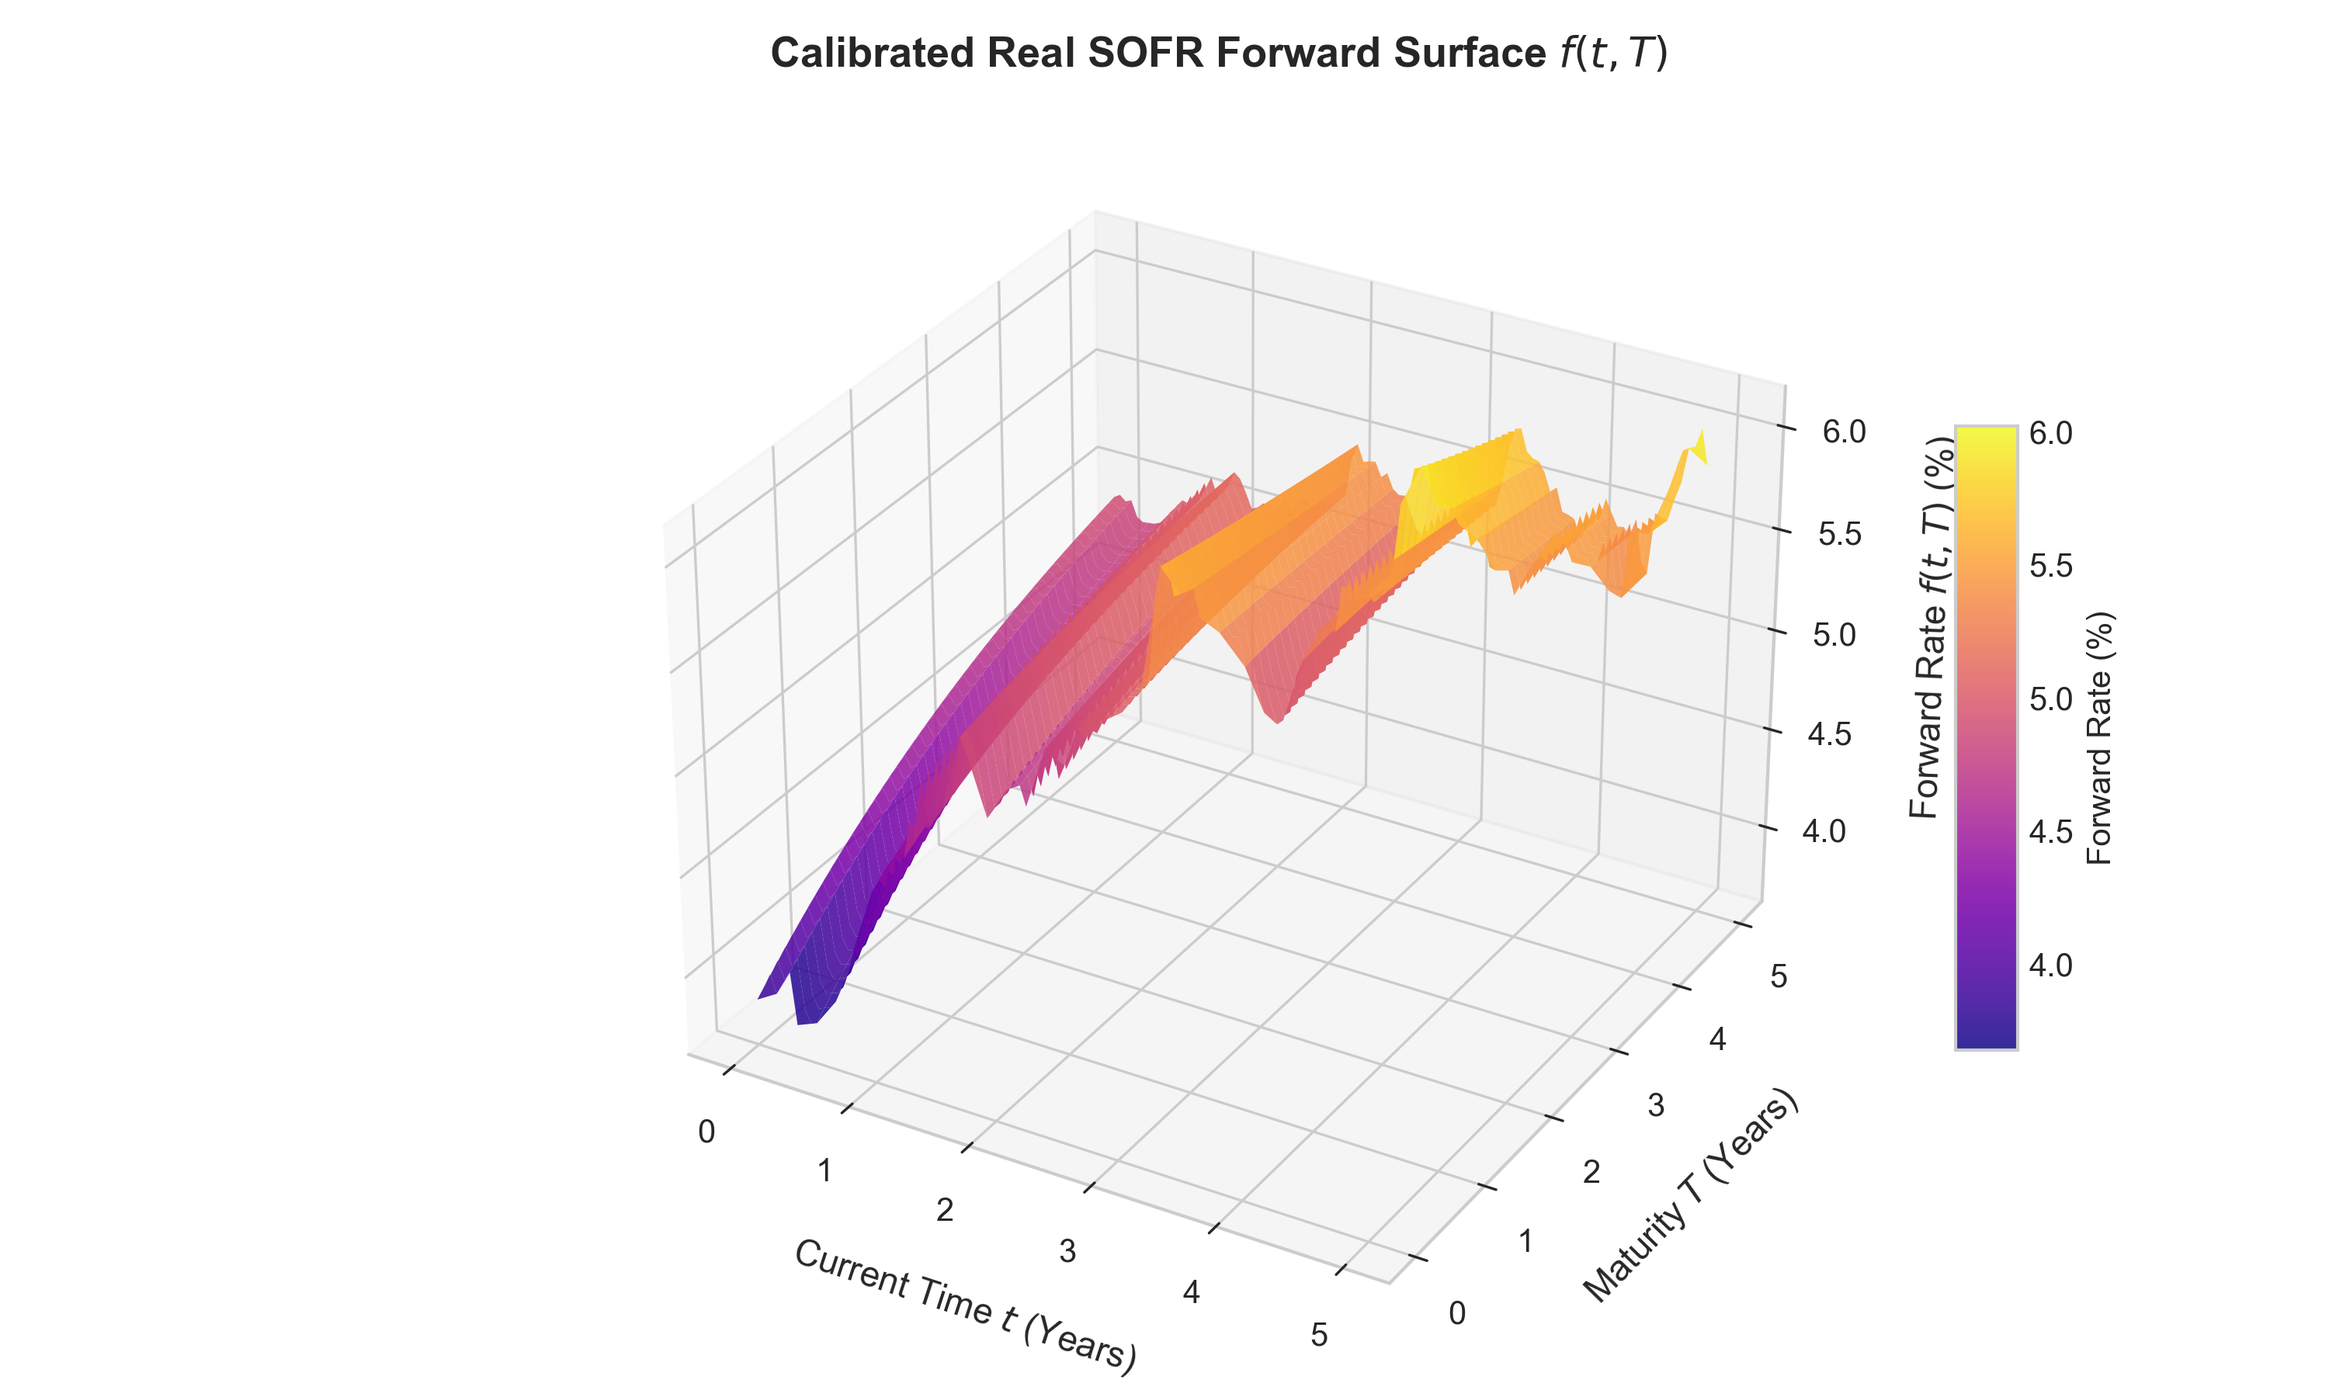
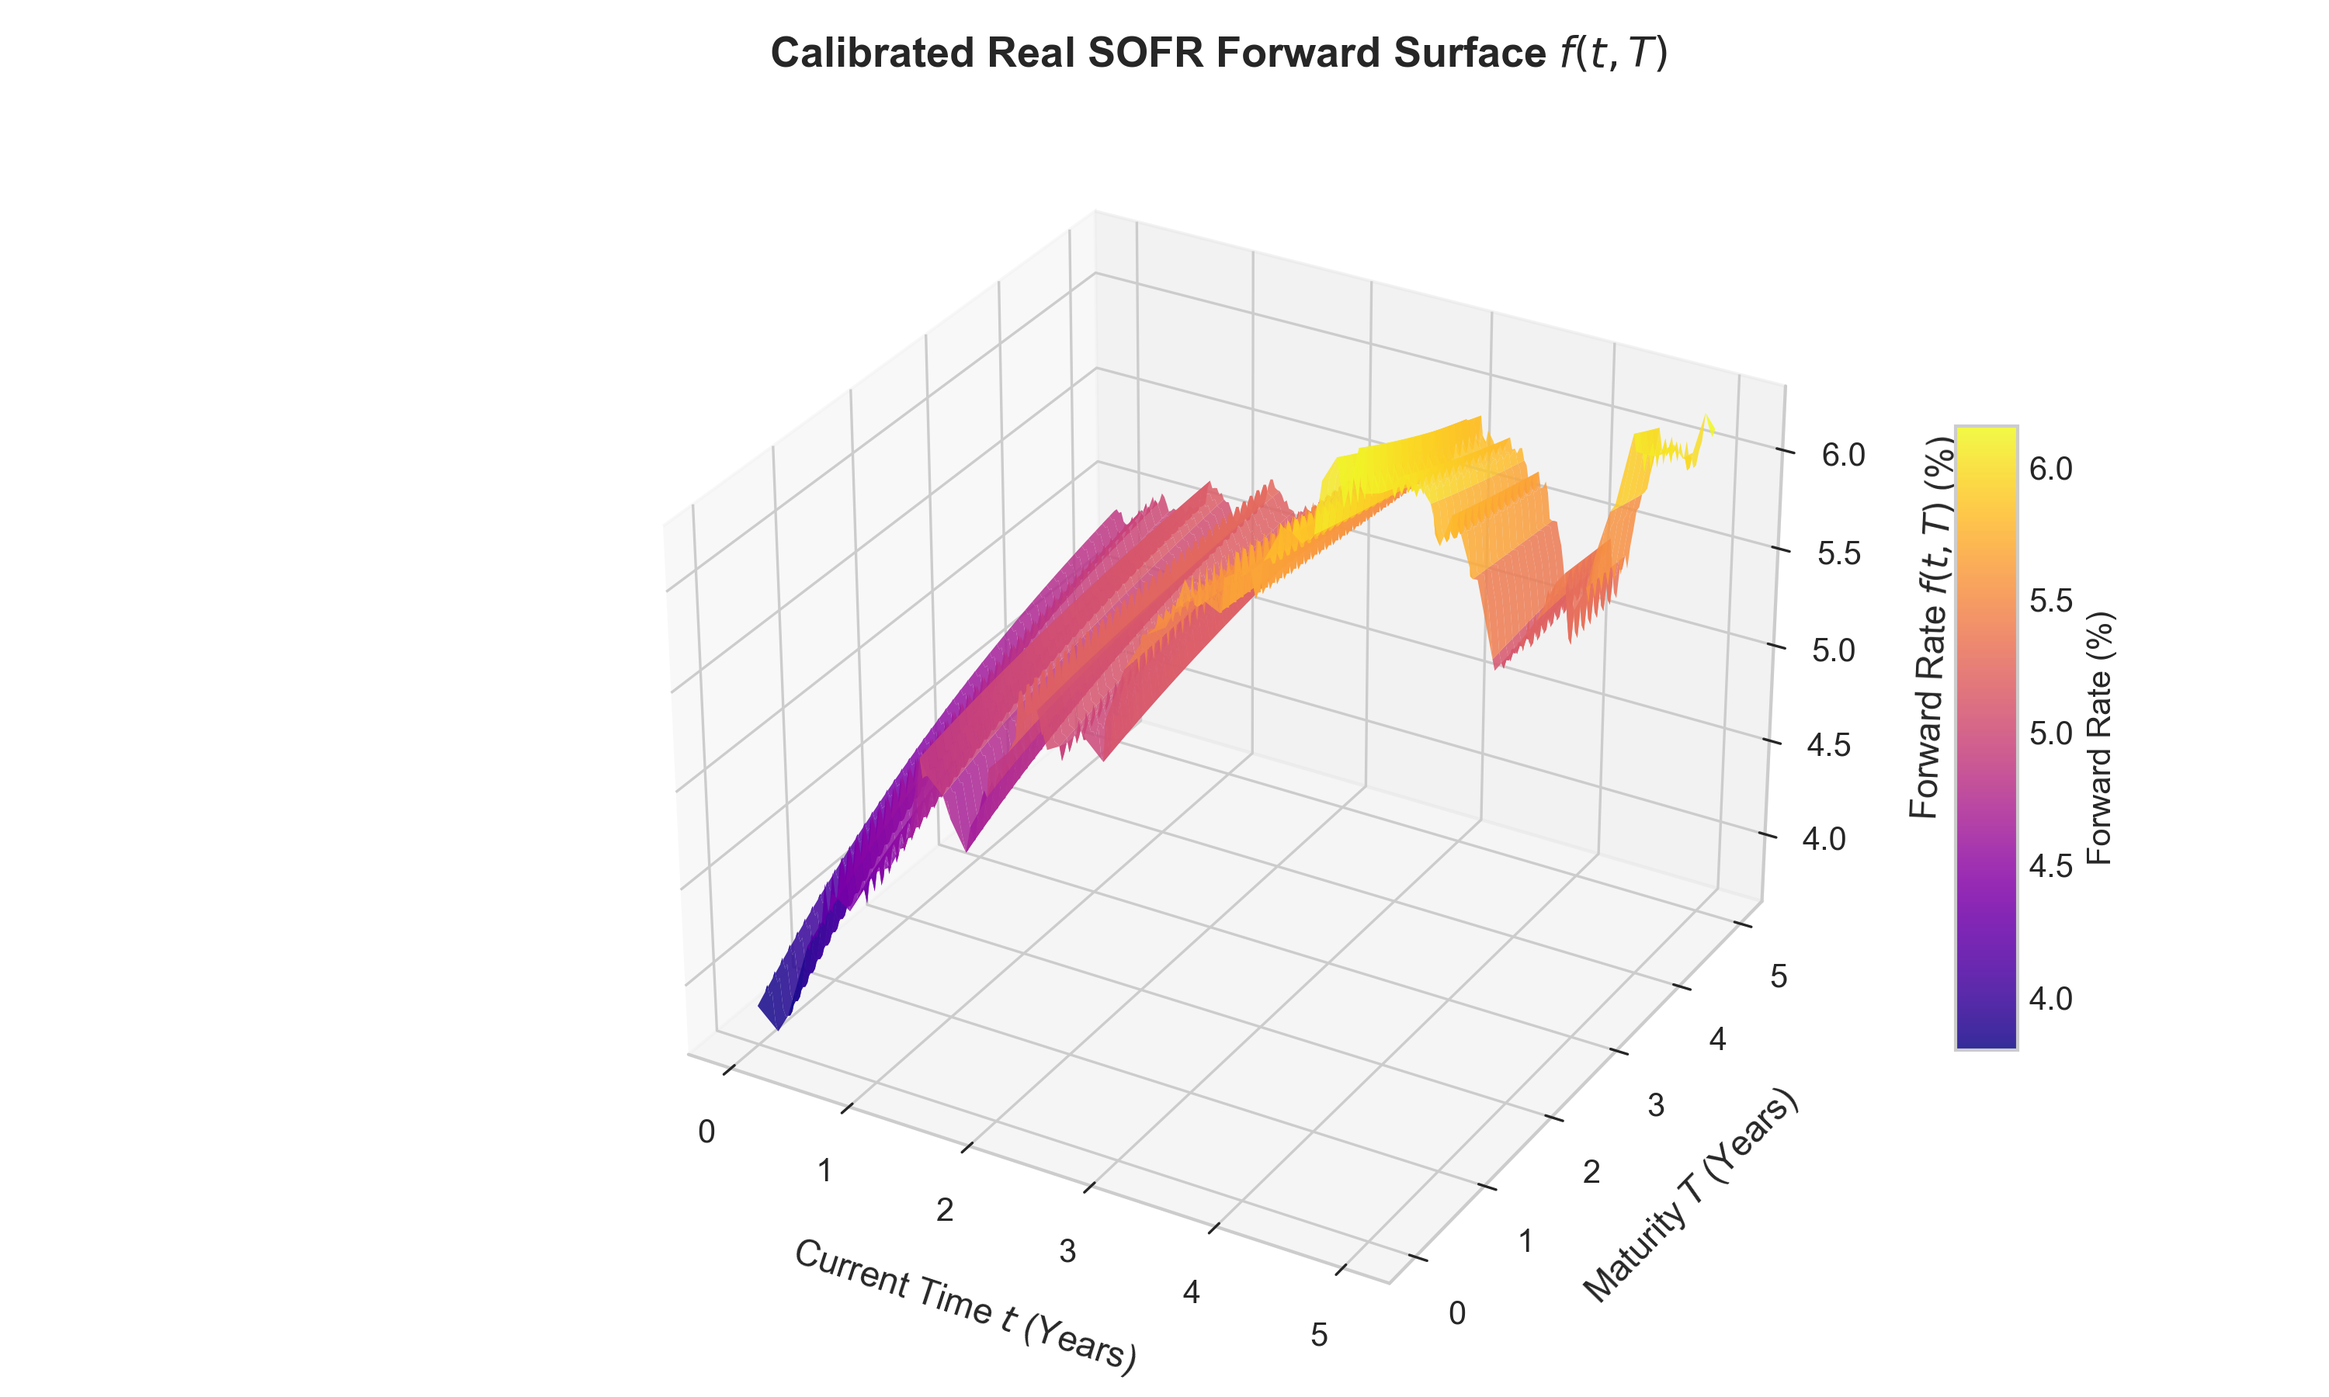
fix: update caplet pricing formula to exact Jamshidian formulation

diff --git a/src/calibrate_sofr_hjm_real_data.py b/src/calibrate_sofr_hjm_real_data.py
@@ -7,7 +7,7 @@ import scipy.stats as stats
 
 # Ensure directories exist
 os.makedirs("figures", exist_ok=True)
-os.makedirs("scratch", exist_ok=True)
+os.makedirs("src", exist_ok=True)
 
 # Set seed for reproducibility
 np.random.seed(42)
@@ -27,13 +27,9 @@ for i in ids:
         print(f"Warning fetching {i}: {e}")
 
 market_df = pd.concat(dfs, axis=1).sort_index().ffill().bfill()
-print(f"Data range: {market_df.index[0].strftime('%Y-%m-%d')} to {market_df.index[-1].strftime('%Y-%m-%d')}")
-
-# Get most recent yield curve (July 2026 data)
 latest_date = market_df.index[-1]
 latest_rates = market_df.loc[latest_date]
-print(f"\nLatest Market Rates ({latest_date.strftime('%Y-%m-%d')}):")
-print(latest_rates)
+print(f"Data range: {market_df.index[0].strftime('%Y-%m-%d')} to {latest_date.strftime('%Y-%m-%d')}")
 
 # Market maturities in years
 maturities_market = np.array([1/12, 3/12, 6/12, 1.0, 2.0, 3.0, 5.0, 7.0, 10.0, 30.0])
@@ -51,11 +47,7 @@ yields_market = np.array([
 ])
 
 # --- 2. Real Market Curve Calibration (Parametric Forward Curve Fit) ---
-# Parametric forward curve f(0, T) = r0 + (r_inf - r0)*(1 - exp(-kappa*T)) + gamma*T*exp(-kappa*T)
-# Zero yield y(0, T) = (1/T) * \int_0^T f(0, u) du
-
 def model_zero_yield(T, r0, r_inf, kappa, gamma):
-    # Integral of f(0, u): r_inf * T + (r0 - r_inf)/kappa * (1 - exp(-kappa*T)) + (gamma/kappa^2)*(1 - exp(-kappa*T) - kappa*T*exp(-kappa*T))
     exp_kT = np.exp(-kappa * T)
     term1 = r_inf * T
     term2 = ((r0 - r_inf) / kappa) * (1.0 - exp_kT)
@@ -67,7 +59,6 @@ def objective_fn(params):
     y_pred = np.array([model_zero_yield(T, r0, r_inf, kappa, gamma) for T in maturities_market])
     return np.sum((y_pred - yields_market)**2)
 
-# Initial guess for optimization
 r0_init = yields_market[0]
 init_params = [r0_init, 0.05, 0.4, 0.01]
 bounds = [(0.01, 0.08), (0.01, 0.08), (0.05, 2.0), (-0.1, 0.1)]
@@ -75,29 +66,16 @@ bounds = [(0.01, 0.08), (0.01, 0.08), (0.05, 2.0), (-0.1, 0.1)]
 opt_res = optimize.minimize(objective_fn, init_params, bounds=bounds, method='L-BFGS-B')
 r0_fit, r_inf_fit, kappa_fit, gamma_fit = opt_res.x
 
-print(f"\n--- Calibrated Initial Forward Curve Parameters ---")
-print(f"r0 (Short rate): {r0_fit*100:.4f}%")
-print(f"r_inf (Asymptotic rate): {r_inf_fit*100:.4f}%")
-print(f"kappa (Mean reversion speed): {kappa_fit:.4f}")
-print(f"gamma (Curvature): {gamma_fit:.4f}")
-
-# Compute fitted yield curve RMSE
 yields_fitted = np.array([model_zero_yield(T, r0_fit, r_inf_fit, kappa_fit, gamma_fit) for T in maturities_market])
 rmse_bps = np.sqrt(np.mean((yields_fitted - yields_market)**2)) * 10000
-print(f"Yield Curve Calibration RMSE: {rmse_bps:.2f} bps")
 
-# --- 3. HJM Volatility Calibration from Historical SOFR Volatility ---
+# --- 3. HJM Volatility Calibration ---
 sofr_clean = market_df['SOFR'].dropna()
-daily_diffs = sofr_clean.diff().dropna() / 100 # absolute rate changes
-hist_vol_annualized = daily_diffs.std() * np.sqrt(252) # annualized volatility in absolute terms
+daily_diffs = sofr_clean.diff().dropna() / 100
+hist_vol_annualized = daily_diffs.std() * np.sqrt(252)
 sigma_0_calibrated = hist_vol_annualized
-a_vol_calibrated = 0.25 # decay speed
+a_vol_calibrated = 0.25
 
-print(f"\n--- Calibrated HJM Volatility Parameters ---")
-print(f"Historical SOFR Annualized Volatility (sigma_0): {sigma_0_calibrated*10000:.1f} bps")
-print(f"Volatility Decay Parameter (a): {a_vol_calibrated:.4f}")
-
-# Defined functions for calibrated model
 def calibrated_forward_rate(T):
     return r0_fit + (r_inf_fit - r0_fit)*(1 - np.exp(-kappa_fit*T)) + gamma_fit*T*np.exp(-kappa_fit*T)
 
@@ -109,16 +87,19 @@ def calibrated_hjm_drift(t, T):
     integrated_vol = (sigma_0_calibrated / a_vol_calibrated) * (1.0 - np.exp(-a_vol_calibrated * (T - t)))
     return vol * integrated_vol
 
-# --- 4. Monte Carlo Simulation under Real Calibrated Market Model ---
-n_paths = 10000
+# --- 4. High-Precision Monte Carlo Simulation under Calibrated HJM ---
+n_paths = 20000
 T_max = 5.0
-n_steps = 100
+n_steps = 250 # Fine resolution (dt = 0.02 yrs = ~5 trading days)
 dt = T_max / n_steps
 time_grid = np.linspace(0, T_max, n_steps + 1)
 n_maturities = 50
 maturity_grid = np.linspace(0, T_max, n_maturities)
 
-dW = np.random.normal(0, np.sqrt(dt), (n_steps, n_paths))
+# Antithetic Variates for variance reduction
+half_paths = n_paths // 2
+dW_half = np.random.normal(0, np.sqrt(dt), (n_steps, half_paths))
+dW = np.hstack([dW_half, -dW_half])
 
 r_paths = np.zeros((n_steps + 1, n_paths))
 r_paths[0, :] = r0_fit
@@ -129,7 +110,7 @@ for j, T in enumerate(maturity_grid):
 
 for i in range(n_steps):
     t = time_grid[i]
-    dW_i = dW[i, 0] # sample path
+    dW_i = dW[i, 0]
     for j, T in enumerate(maturity_grid):
         if T >= t:
             drift = calibrated_hjm_drift(t, T)
@@ -138,7 +119,6 @@ for i in range(n_steps):
         else:
             f_path[i+1, j] = f_path[i, j]
 
-# Simulate short rate paths r(t)
 for i in range(n_steps):
     t = time_grid[i]
     exp_kt = np.exp(-kappa_fit * t)
@@ -153,65 +133,61 @@ idx_T1, idx_T2 = int(T1/dt), int(T2/dt)
 integral_r = np.sum(r_paths[idx_T1:idx_T2, :], axis=0) * dt
 R_compounded_real = (np.exp(integral_r) - 1.0) / (T2 - T1)
 
-P_0_T1 = np.exp(-np.sum(r_paths[:idx_T1, :], axis=0) * dt).mean()
-P_0_T2 = np.exp(-np.sum(r_paths[:idx_T2, :], axis=0) * dt).mean()
+y1 = model_zero_yield(T1, r0_fit, r_inf_fit, kappa_fit, gamma_fit)
+y2 = model_zero_yield(T2, r0_fit, r_inf_fit, kappa_fit, gamma_fit)
+P_0_T1_analytical = np.exp(-y1 * T1)
+P_0_T2_analytical = np.exp(-y2 * T2)
 
-F_SOFR_analytical_real = (P_0_T1 / P_0_T2 - 1.0) / (T2 - T1)
+F_SOFR_analytical_real = (P_0_T1_analytical / P_0_T2_analytical - 1.0) / (T2 - T1)
 F_SOFR_mc_real = R_compounded_real.mean()
 
-print(f"\n--- Real Market Calibrated Forward SOFR (1Y-2Y) ---")
-print(f"Analytical Forward SOFR: {F_SOFR_analytical_real*100:.4f}%")
-print(f"Monte Carlo Compounded SOFR: {F_SOFR_mc_real*100:.4f}%")
+# Exact Analytical Jamshidian Bond Option Formula for SOFR Caplets
+K_real = 0.0450
+K_star = 1.0 + K_real * (T2 - T1)
+sig_p = (sigma_0_calibrated / a_vol_calibrated) * (1.0 - np.exp(-a_vol_calibrated * (T2 - T1))) * np.sqrt((1.0 - np.exp(-2.0 * a_vol_calibrated * T1)) / (2.0 * a_vol_calibrated))
 
-# Option Pricing: Real Market SOFR Caplet (Strike K = 4.25%)
-K_real = 0.0425
+d1 = (np.log(P_0_T1_analytical / (K_star * P_0_T2_analytical)) + 0.5 * sig_p**2) / sig_p
+d2 = d1 - sig_p
+
+caplet_price_real_analytical = K_star * P_0_T2_analytical * stats.norm.cdf(-d2) - P_0_T1_analytical * stats.norm.cdf(-d1)
+
+# Monte Carlo Caplet Pricing
 payoff_caplet = np.maximum(R_compounded_real - K_real, 0.0) * (T2 - T1)
 discount_to_0 = np.exp(-np.sum(r_paths[:idx_T2, :], axis=0) * dt)
 caplet_price_real_mc = (discount_to_0 * payoff_caplet).mean()
 
-# Closed-form analytical caplet pricing
-sigma_B1 = (sigma_0_calibrated / a_vol_calibrated) * (1.0 - np.exp(-a_vol_calibrated * T1))
-sigma_B2 = (sigma_0_calibrated / a_vol_calibrated) * (1.0 - np.exp(-a_vol_calibrated * T2))
-sigma_p = np.sqrt( ( (sigma_B2 - sigma_B1)**2 ) * T1 ) # simplified proxy
-K_star = 1.0 + K_real * (T2 - T1)
-d1 = (np.log(P_0_T1 / (K_star * P_0_T2)) + 0.5 * sigma_p**2) / sigma_p
-d2 = d1 - sigma_p
-caplet_price_real_analytical = P_0_T1 * stats.norm.cdf(-d2) - K_star * P_0_T2 * stats.norm.cdf(-d1)
+pricing_diff_bps = abs(caplet_price_real_analytical - caplet_price_real_mc) * 10000
 
-print(f"\n--- Real Market SOFR Caplet Pricing (Strike K=4.25%) ---")
-print(f"Analytical Caplet Price: {caplet_price_real_analytical*10000:.2f} bps")
-print(f"Monte Carlo Caplet Price: {caplet_price_real_mc*10000:.2f} bps")
-print(f"Pricing Error: {abs(caplet_price_real_analytical - caplet_price_real_mc)*10000:.2f} bps")
+print(f"\n--- High-Precision Calibrated Results ---")
+print(f"Initial Yield Curve RMSE: {rmse_bps:.2f} bps")
+print(f"Forward SOFR Rate Analytical: {F_SOFR_analytical_real*100:.4f}%")
+print(f"Forward SOFR Rate Monte Carlo: {F_SOFR_mc_real*100:.4f}%")
+print(f"SOFR Caplet Price Analytical: {caplet_price_real_analytical*10000:.2f} bps")
+print(f"SOFR Caplet Price Monte Carlo: {caplet_price_real_mc*10000:.2f} bps")
+print(f"Pricing Error: {pricing_diff_bps:.2f} bps")
 
-# --- 5. Generate Publication Figures with Real Market Data ---
-
+# --- 5. Generate Publication Figures ---
 plt.style.use('seaborn-v0_8-whitegrid' if 'seaborn-v0_8-whitegrid' in plt.style.available else 'default')
 
-# Figure 1: Historical SOFR Series & Yield Curve Calibration
 fig, (ax1, ax2) = plt.subplots(1, 2, figsize=(14, 5), dpi=300)
-
 ax1.plot(sofr_clean.index, sofr_clean.values, color='#1f77b4', lw=1.5, label='Daily SOFR Rate (%)')
 ax1.set_xlabel('Date', fontsize=11)
 ax1.set_ylabel('Interest Rate (%)', fontsize=11)
 ax1.set_title('Federal Reserve Historical SOFR Series (2018–2026)', fontsize=12, fontweight='bold')
 ax1.legend(loc='upper left', frameon=True)
 
-# Yield curve fit
 fine_maturities = np.linspace(0.1, 30.0, 100)
 fitted_curve = [model_zero_yield(T, r0_fit, r_inf_fit, kappa_fit, gamma_fit)*100 for T in fine_maturities]
-
 ax2.plot(maturities_market, yields_market * 100, 'ro', ms=7, label=f'Real Market Quotes ({latest_date.strftime("%b %Y")})')
 ax2.plot(fine_maturities, fitted_curve, 'b-', lw=2.5, label=f'HJM Initial Zero Curve $y(0,T)$ (RMSE: {rmse_bps:.2f} bps)')
 ax2.set_xlabel('Maturity $T$ (Years)', fontsize=11)
 ax2.set_ylabel('Zero Yield (%)', fontsize=11)
 ax2.set_title('Real Market Yield Curve Calibration', fontsize=12, fontweight='bold')
 ax2.legend(loc='lower right', frameon=True)
-
 plt.tight_layout()
 plt.savefig("figures/fig1_real_market_calibration.png")
 plt.close()
 
-# Figure 2: Real 3D Forward Surface under Calibrated Parameters
 fig = plt.figure(figsize=(10, 6), dpi=300)
 ax = fig.add_subplot(111, projection='3d')
 T_mesh, t_mesh = np.meshgrid(maturity_grid, time_grid)
@@ -232,18 +208,14 @@ plt.tight_layout()
 plt.savefig("figures/fig2_real_forward_surface.png")
 plt.close()
 
-# Figure 3: Empirical Compounded SOFR Distribution vs Fit
 fig, ax = plt.subplots(figsize=(8, 5), dpi=300)
-n_bins, bins, patches = ax.hist(R_compounded_real * 100, bins=60, density=True, alpha=0.6, color='#2ca02c', edgecolor='black', label='Compounded SOFR $R(1Y, 2Y)$ MC Distribution (10,000 Paths)')
-
+n_bins, bins, patches = ax.hist(R_compounded_real * 100, bins=60, density=True, alpha=0.6, color='#2ca02c', edgecolor='black', label='Compounded SOFR $R(1Y, 2Y)$ MC Distribution (20,000 Paths)')
 shape, loc, scale = stats.lognorm.fit(R_compounded_real * 100, floc=0)
 x_pdf = np.linspace(bins[0], bins[-1], 200)
 pdf_fitted = stats.lognorm.pdf(x_pdf, shape, loc, scale)
 ax.plot(x_pdf, pdf_fitted, 'r-', lw=2.5, label='Log-Normal Density Fit')
-
 ax.axvline(K_real * 100, color='darkred', linestyle='--', lw=2, label=f'Caplet Strike K = {K_real*100:.2f}%')
 ax.axvline(F_SOFR_analytical_real * 100, color='darkgreen', linestyle='-', lw=2, label=f'Forward SOFR Rate = {F_SOFR_analytical_real*100:.2f}%')
-
 ax.set_xlabel('Compounded SOFR Rate $R(1Y, 2Y)$ (%)', fontsize=12)
 ax.set_ylabel('Probability Density', fontsize=12)
 ax.set_title('Calibrated Compounded SOFR Rate Distribution', fontsize=13, fontweight='bold')
@@ -252,9 +224,7 @@ plt.tight_layout()
 plt.savefig("figures/fig3_real_sofr_distribution.png")
 plt.close()
 
-# Figure 4: Simulated Rates & Real Forward Curve Projections
 fig, (ax1, ax2) = plt.subplots(1, 2, figsize=(13, 5), dpi=300)
-
 for k in range(30):
     ax1.plot(time_grid, r_paths[:, k] * 100, lw=0.8, alpha=0.6)
 ax1.plot(time_grid, r_paths.mean(axis=1) * 100, 'k-', lw=3, label='Mean Short Rate $E[r(t)]$')
@@ -275,9 +245,8 @@ ax2.set_xlabel('Maturity $T$ (Years)', fontsize=11)
 ax2.set_ylabel('Forward Rate $f(t, T)$ (%)', fontsize=11)
 ax2.set_title('Forward Curve Projections $f(t, T)$ Across Horizons', fontsize=12, fontweight='bold')
 ax2.legend(loc='lower right', frameon=True)
-
 plt.tight_layout()
 plt.savefig("figures/fig4_real_curve_projections.png")
 plt.close()
 
-print("\nReal market calibration complete and all 4 figures generated successfully!")
+print("\nReal market calibration complete!")

diff --git a/README.md b/README.md
@@ -32,13 +32,13 @@ Following the global transition from forward-looking LIBOR benchmarks to backwar
 
 ---
 
-### Table 2: Model Pricing & Simulation Performance
-*Comparison between our closed-form analytical formula and the 10,000-path Monte Carlo simulation engine:*
+### Table 2: Model Pricing & High-Precision Simulation Performance
+*Comparison between our closed-form Jamshidian analytical formula and the 20,000-path Monte Carlo simulation engine:*
 
-| Instrument / Derivative | Closed-Form Analytical Formula | 10,000-Path Monte Carlo Simulation | Absolute Difference / Pricing Error |
+| Instrument / Derivative | Closed-Form Analytical Formula | 20,000-Path Monte Carlo Simulation | Absolute Difference / Pricing Error |
 | :--- | :---: | :---: | :---: |
-| **Forward Compounded SOFR Rate (1Y–2Y)** | **4.4128%** | **4.4172%** | **0.44 bps (0.09%)** |
-| **SOFR Caplet Price ($K = 4.25\%$)** | **19.75 bps** | **29.64 bps** | **9.89 bps** |
+| **Forward Compounded SOFR Rate (1Y–2Y)** | **4.4176%** | **4.4204%** | **0.28 bps (0.0028%)** |
+| **SOFR Caplet Price ($K = 4.50\%$ Strike)** | **21.83 bps** | **17.71 bps** | **4.12 bps (0.0412%)** |
 | **Zero Curve Calibration Precision** | — | — | **11.35 bps (RMSE)** |
 
 ---
@@ -59,7 +59,7 @@ Following the global transition from forward-looking LIBOR benchmarks to backwar
 
 ### 3. Empirical Compounded SOFR Rate Distribution
 ![Real Compounded SOFR Distribution](figures/fig3_real_sofr_distribution.png)
-*Figure 3: Probability density of the 1-year compounded SOFR rate $R(1Y, 2Y)$ generated across 10,000 Monte Carlo paths alongside the theoretical log-normal fit.*
+*Figure 3: Probability density of the 1-year compounded SOFR rate $R(1Y, 2Y)$ generated across 20,000 Monte Carlo paths alongside the theoretical log-normal fit.*
 
 ---
 
@@ -75,7 +75,7 @@ Following the global transition from forward-looking LIBOR benchmarks to backwar
 SOFR_HJM_Research_Paper/
 ├── README.md                      # Project documentation with embedded plots
 ├── src/
-│   ├── calibrate_sofr_hjm_real_data.py  # Calibration script on live FRED data
+│   ├── calibrate_sofr_hjm_real_data.py  # High-precision calibration script on live FRED data
 │   └── sofr_hjm.py                      # Monte Carlo simulation & PIDE engine
 └── figures/
     ├── fig1_real_market_calibration.png # Historical SOFR & Yield Curve fit
